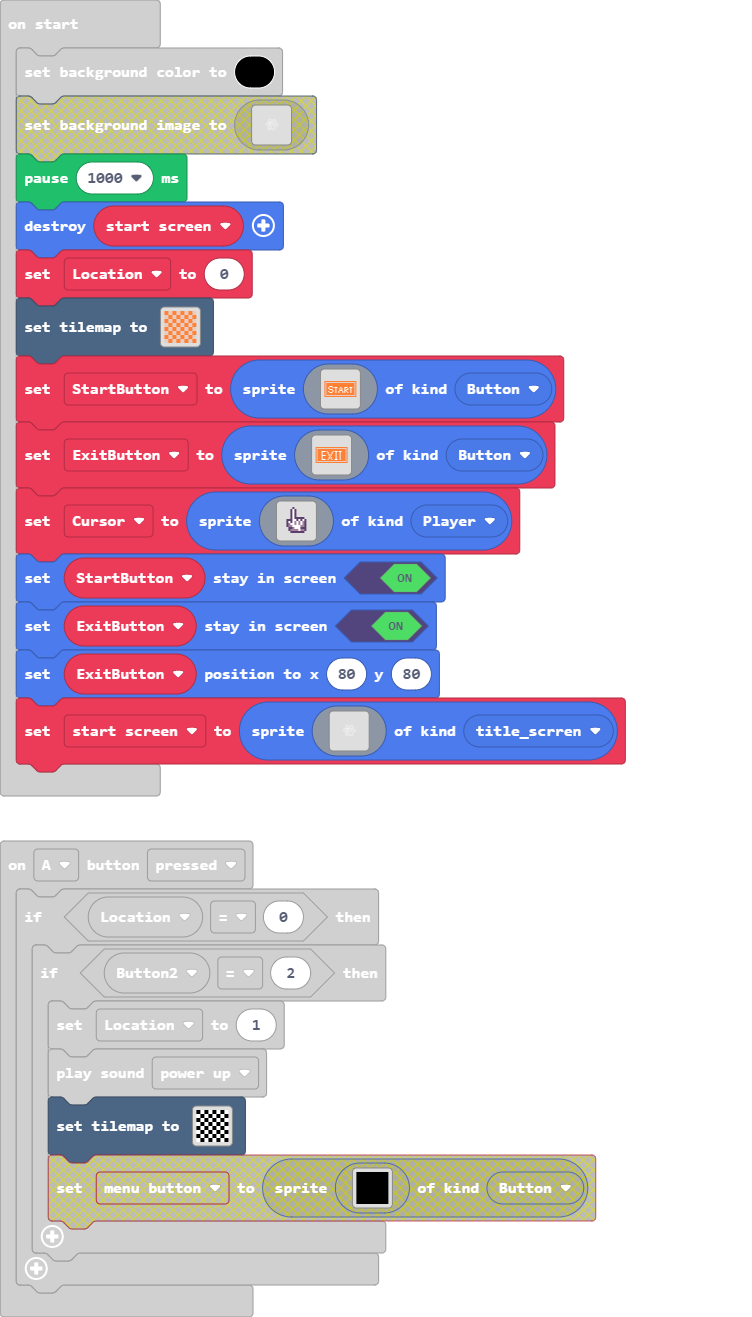
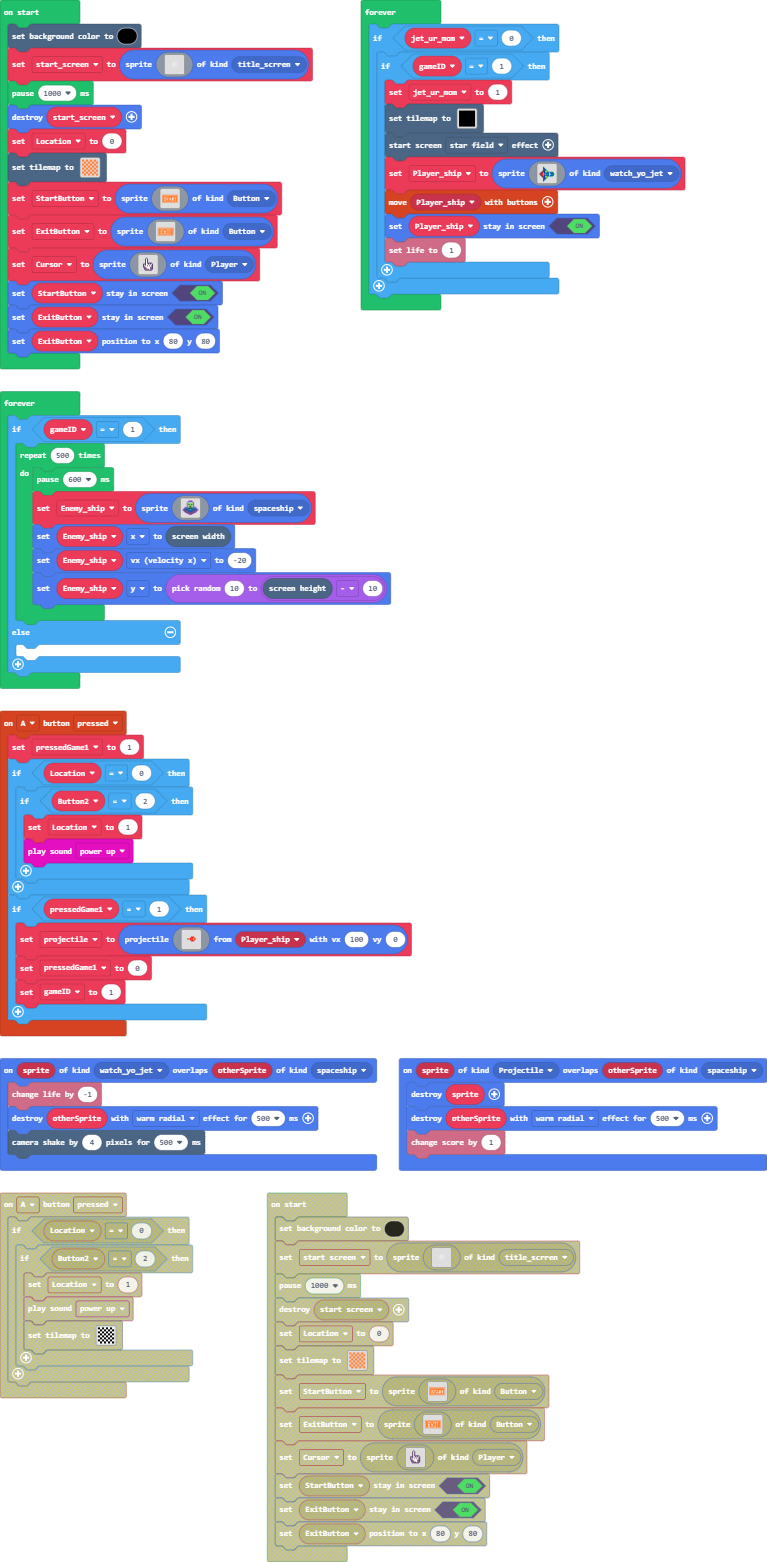
Update main.blocks, main.ts, tilemap.g.jres, tilemap.g.ts

diff --git a/main.ts b/main.ts
@@ -4,6 +4,8 @@ enum RadioMessage {
 namespace SpriteKind {
     export const Button = SpriteKind.create()
     export const title_scrren = SpriteKind.create()
+    export const watch_yo_jet = SpriteKind.create()
+    export const spaceship = SpriteKind.create()
 }
 controller.up.onEvent(ControllerButtonEvent.Pressed, function () {
     if (Location == 0) {
@@ -18,13 +20,45 @@ controller.up.onEvent(ControllerButtonEvent.Pressed, function () {
     }
 })
 controller.A.onEvent(ControllerButtonEvent.Pressed, function () {
+    pressedGame1 = 1
     if (Location == 0) {
         if (Button2 == 2) {
             Location = 1
             music.powerUp.play()
-            tiles.setTilemap(tilemap`gaymer`)
         }
     }
+    if (pressedGame1 == 1) {
+        projectile = sprites.createProjectileFromSprite(img`
+            . . . . . . . . . . . . . . . . 
+            . . . . . . . . . . . . . . . . 
+            . . . . . . . . . . . . . . . . 
+            . . . . . . . . . . . . . . . . 
+            . . . . . . . . . . . . . . . . 
+            . . . . . . . . 2 2 2 . . . . . 
+            . . . . . . . 2 2 2 4 2 . . . . 
+            . . . . 2 2 2 2 4 4 5 4 2 . . . 
+            . . . . . . . 2 2 2 4 2 . . . . 
+            . . . . . . . . 2 2 2 . . . . . 
+            . . . . . . . . . . . . . . . . 
+            . . . . . . . . . . . . . . . . 
+            . . . . . . . . . . . . . . . . 
+            . . . . . . . . . . . . . . . . 
+            . . . . . . . . . . . . . . . . 
+            . . . . . . . . . . . . . . . . 
+            `, Player_ship, 100, 0)
+        pressedGame1 = 0
+        gameID = 1
+    }
+})
+sprites.onOverlap(SpriteKind.watch_yo_jet, SpriteKind.spaceship, function (sprite, otherSprite) {
+    info.changeLifeBy(-1)
+    otherSprite.destroy(effects.warmRadial, 500)
+    scene.cameraShake(4, 500)
+})
+sprites.onOverlap(SpriteKind.Projectile, SpriteKind.spaceship, function (sprite, otherSprite) {
+    sprite.destroy()
+    otherSprite.destroy(effects.warmRadial, 500)
+    info.changeScoreBy(1)
 })
 controller.down.onEvent(ControllerButtonEvent.Pressed, function () {
     if (Location == 0) {
@@ -36,6 +70,12 @@ controller.down.onEvent(ControllerButtonEvent.Pressed, function () {
         }
     }
 })
+let Enemy_ship: Sprite = null
+let jet_ur_mom = 0
+let gameID = 0
+let Player_ship: Sprite = null
+let projectile: Sprite = null
+let pressedGame1 = 0
 let Button2 = 0
 let Location = 0
 scene.setBackgroundColor(15)
@@ -50,6 +90,24 @@ let Cursor = sprites.create(assets.image`Cursor`, SpriteKind.Player)
 StartButton.setStayInScreen(true)
 ExitButton.setStayInScreen(true)
 ExitButton.setPosition(80, 80)
+forever(function () {
+    if (Location == 0) {
+        scene.centerCameraAt(scene.cameraProperty(CameraProperty.X) + 1, scene.cameraProperty(CameraProperty.Y) + 1)
+        StartButton.x += 1
+        StartButton.y += 1
+        ExitButton.x += 1
+        ExitButton.y += 1
+        if (140 < scene.cameraProperty(CameraProperty.X)) {
+            scene.centerCameraAt(0, 0)
+            StartButton.setPosition(80, 60)
+            ExitButton.setPosition(80, 80)
+        }
+    } else {
+        ExitButton.destroy()
+        StartButton.destroy()
+        Cursor.destroy()
+    }
+})
 forever(function () {
     if (Button2 == 2) {
         Cursor.destroy()
@@ -68,20 +126,62 @@ forever(function () {
     }
 })
 forever(function () {
-    if (Location == 0) {
-        scene.centerCameraAt(scene.cameraProperty(CameraProperty.X) + 1, scene.cameraProperty(CameraProperty.Y) + 1)
-        StartButton.x += 1
-        StartButton.y += 1
-        ExitButton.x += 1
-        ExitButton.y += 1
-        if (140 < scene.cameraProperty(CameraProperty.X)) {
-            scene.centerCameraAt(0, 0)
-            StartButton.setPosition(80, 60)
-            ExitButton.setPosition(80, 80)
+    if (jet_ur_mom == 0) {
+        if (gameID == 1) {
+            jet_ur_mom = 1
+            tiles.setTilemap(tilemap`level9`)
+            effects.starField.startScreenEffect()
+            Player_ship = sprites.create(img`
+                . . . . . . . . . . . . . . . . 
+                . . . . 6 . . . . . . . . . . . 
+                . . . . 8 6 . . . . . . . . . . 
+                . . . . c 8 6 . . . . . . . . . 
+                . . . . e c 8 6 . . . . . . . . 
+                . . . e c 8 7 7 6 . . . . . . . 
+                . . e c 2 8 7 7 6 6 6 6 6 6 . . 
+                . e c 2 4 8 8 8 8 8 9 8 8 8 8 . 
+                e c 2 2 4 b 9 6 6 6 9 9 6 6 6 7 
+                . e c 2 4 8 8 8 8 8 9 8 8 8 8 . 
+                . . e c 2 8 7 7 6 6 6 6 6 6 . . 
+                . . . e c 8 7 7 6 . . . . . . . 
+                . . . . e c 8 6 . . . . . . . . 
+                . . . . c 8 6 . . . . . . . . . 
+                . . . . 8 6 . . . . . . . . . . 
+                . . . . 6 . . . . . . . . . . . 
+                `, SpriteKind.watch_yo_jet)
+            controller.moveSprite(Player_ship)
+            Player_ship.setStayInScreen(true)
+            info.setLife(1)
+        }
+    }
+})
+forever(function () {
+    if (gameID == 1) {
+        for (let index = 0; index < 500; index++) {
+            pause(600)
+            Enemy_ship = sprites.create(img`
+                . . . . . . . a a a a . . . . . . . 
+                . . . . . . a a a a a a . . . . . . 
+                . . . . . a 7 9 9 9 9 7 a . . . . . 
+                . . . . . a 7 7 7 7 7 7 a . . . . . 
+                . . . . . a 7 f 7 7 f 7 a . . . . . 
+                . . . . . a 7 7 7 7 7 7 a . . . . . 
+                . . . . . a 9 7 f f 7 9 a . . . . . 
+                . . . a a a 9 7 7 7 7 9 a a a . . . 
+                . . a 6 6 6 f f f f f f 6 6 6 a . . 
+                . a 8 8 8 8 6 6 6 6 6 6 8 8 8 8 a . 
+                a c c 8 8 8 8 8 6 6 8 8 8 8 8 c c a 
+                . a c c c 8 8 8 8 8 8 8 8 c c c a . 
+                . . a c c c c 8 8 8 8 c c c c a . . 
+                . . . a a c c c c c c c c a a . . . 
+                . . . . . a a c c c c a a . . . . . 
+                . . . . . . . a a a a . . . . . . . 
+                `, SpriteKind.spaceship)
+            Enemy_ship.x = scene.screenWidth()
+            Enemy_ship.vx = -20
+            Enemy_ship.y = randint(10, scene.screenHeight() - 10)
         }
     } else {
-        ExitButton.destroy()
-        StartButton.destroy()
-        Cursor.destroy()
+    	
     }
 })

diff --git a/tilemap.g.ts b/tilemap.g.ts
@@ -148,6 +148,44 @@ namespace myTiles {
 . . . . . . . . . . . . . . . . 
 . . . . . . . . . . . . . . . . 
 `, [myTiles.transparency16], TileScale.Sixteen);
+            case "level8":
+            case "level8":return tiles.createTilemap(hex`1000100000000000000000000000000000000000000000000000000000000000000000000000000000000000000000000000000000000000000000000000000000000000000000000000000000000000000000000000000000000000000000000000000000000000000000000000000000000000000000000000000000000000000000000000000000000000000000000000000000000000000000000000000000000000000000000000000000000000000000000000000000000000000000000000000000000000000000000000000000000000000000000000000000000000000000000000000000000000000000000000000000000000000000000000000000000000`, img`
+. . . . . . . . . . . . . . . . 
+. . . . . . . . . . . . . . . . 
+. . . . . . . . . . . . . . . . 
+. . . . . . . . . . . . . . . . 
+. . . . . . . . . . . . . . . . 
+. . . . . . . . . . . . . . . . 
+. . . . . . . . . . . . . . . . 
+. . . . . . . . . . . . . . . . 
+. . . . . . . . . . . . . . . . 
+. . . . . . . . . . . . . . . . 
+. . . . . . . . . . . . . . . . 
+. . . . . . . . . . . . . . . . 
+. . . . . . . . . . . . . . . . 
+. . . . . . . . . . . . . . . . 
+. . . . . . . . . . . . . . . . 
+. . . . . . . . . . . . . . . . 
+`, [myTiles.transparency16], TileScale.Sixteen);
+            case "level9":
+            case "level9":return tiles.createTilemap(hex`1000100001010101010101010101010101010101010101010101010101010101010101010101010101010101010101010101010101010101010101010101010101010101010101010101010101010101010101010101010101010101010101010101010101010101010101010101010101010101010101010101010101010101010101010101010101010101010101010101010101010101010101010101010101010101010101010101010101010101010101010101010101010101010101010101010101010101010101010101010101010101010101010101010101010101010101010101010101010101010101010101010101010101010101010101010101010101`, img`
+. . . . . . . . . . . . . . . . 
+. . . . . . . . . . . . . . . . 
+. . . . . . . . . . . . . . . . 
+. . . . . . . . . . . . . . . . 
+. . . . . . . . . . . . . . . . 
+. . . . . . . . . . . . . . . . 
+. . . . . . . . . . . . . . . . 
+. . . . . . . . . . . . . . . . 
+. . . . . . . . . . . . . . . . 
+. . . . . . . . . . . . . . . . 
+. . . . . . . . . . . . . . . . 
+. . . . . . . . . . . . . . . . 
+. . . . . . . . . . . . . . . . 
+. . . . . . . . . . . . . . . . 
+. . . . . . . . . . . . . . . . 
+. . . . . . . . . . . . . . . . 
+`, [myTiles.transparency16,myTiles.tile3], TileScale.Sixteen);
         }
         return null;
     })
